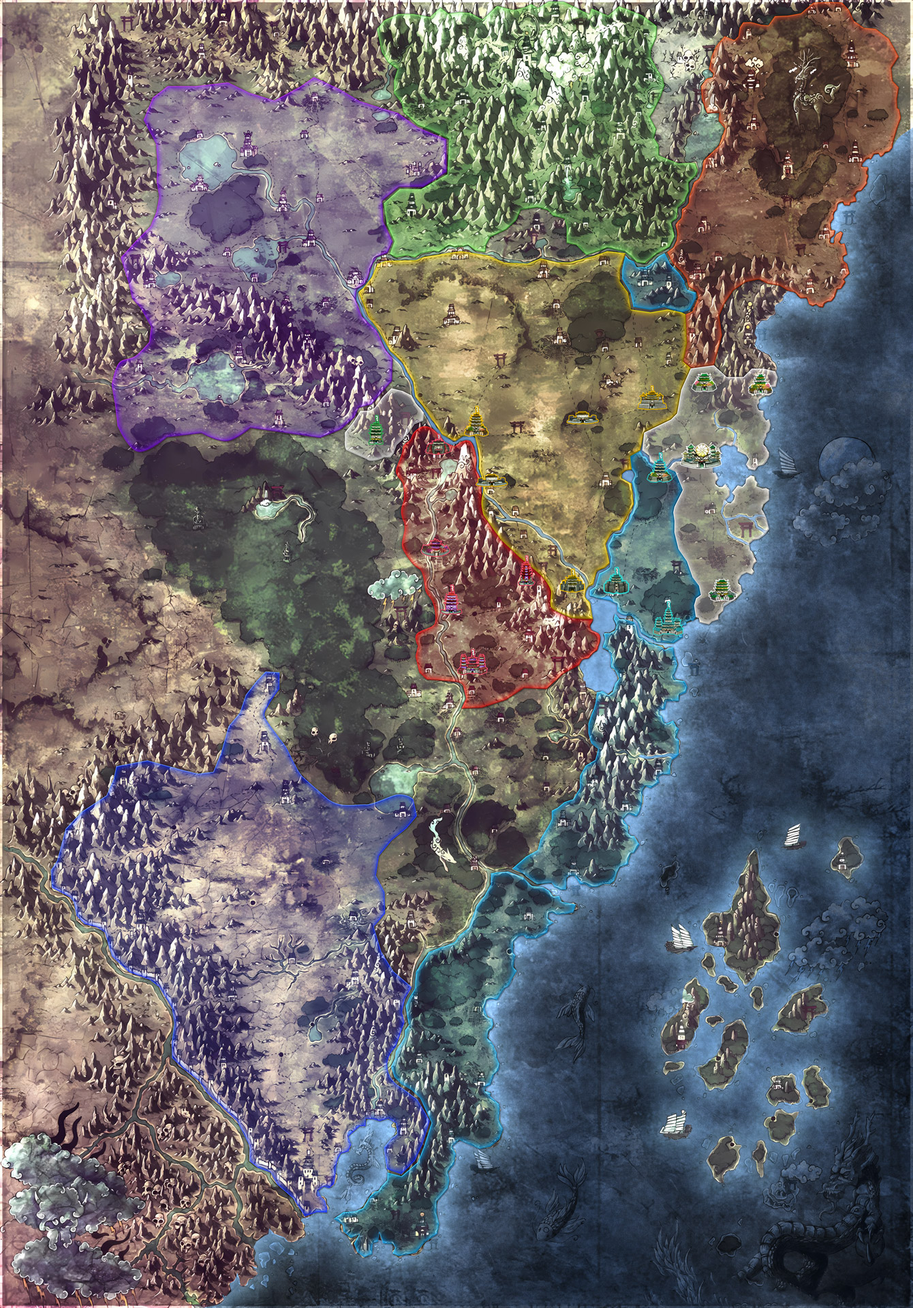
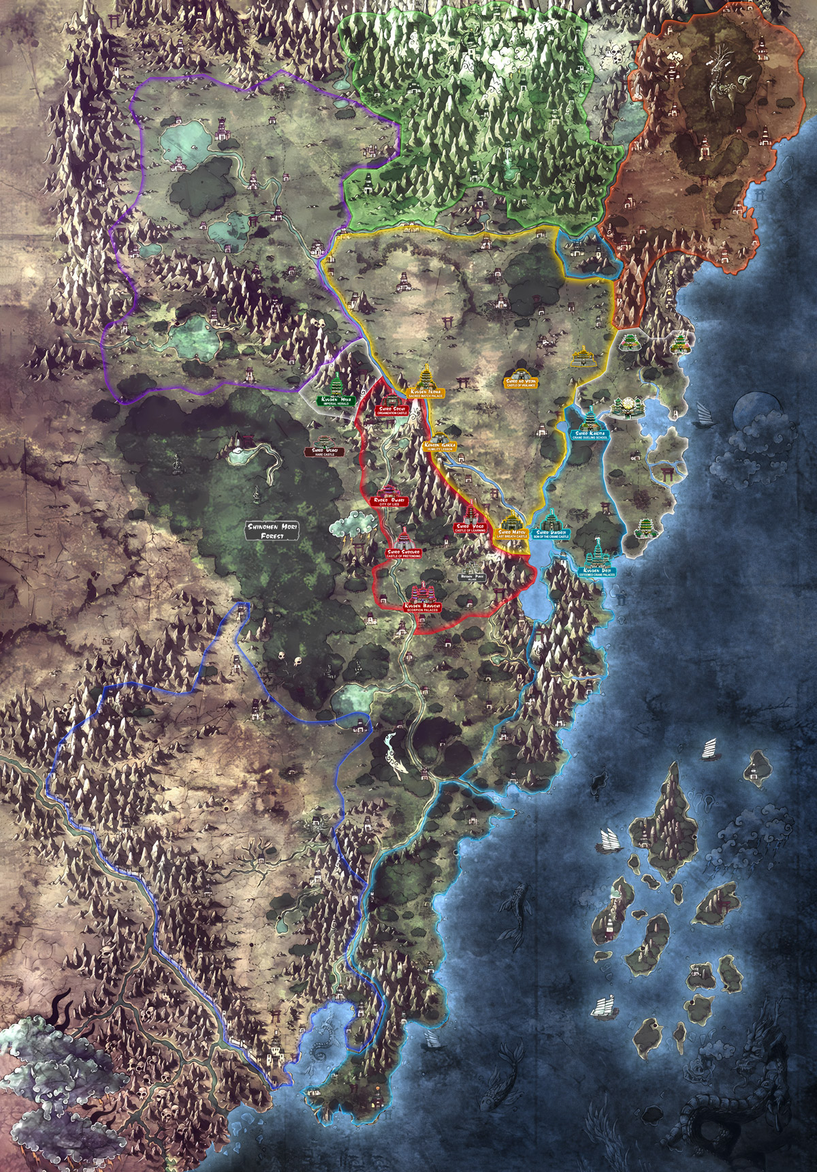
[LIEU] updated map localisator with X/Y Coordinates

diff --git a/public/css/style.css b/public/css/style.css
@@ -8,6 +8,7 @@
 .white { color: white; }
 .light-gray { color: #eee; }
 
+
 .primary-color { color: #EA2027; }
 .primary-color-light { color: #ff4147; }
 .primary-color-lighter { color: #ff8084; }
@@ -59,14 +60,6 @@
 
 h5 a:hover, h4 a:hover, h3 a:hover, h2 a:hover, h1 a:hover { text-decoration: none; color: #007bff };
 
-<<<<<<< HEAD
-.separator-chapter a { color: #fff; text-decoration: none;}
-.separator-chapter a:hover { color: #ff7f00; text-decoration: none; }
-
-.ranking a { color: black;}
-.ranking a:hover { color: #007bff; text-decoration: none;}
-=======
->>>>>>> 7868f2f (css fix: background for insert button)
 
 
 /* -------------------------- */
@@ -107,28 +100,6 @@ html, body {    font-size: 16px; }
 @font-face { font-family: "Hirosh"; src: url("../assets/fonts/hirosh.otf"); }
 @font-face { font-family: "Present"; src: url("../assets/fonts/present-it-black.otf"); }
 
-<<<<<<< HEAD
-
-
-/* LINKS */
-
-.link-white { color: #fff; }
-.link-white:hover { color: #aaa; text-decoration: underline; }
-
-.link-gray { color: rgba(255,255,255, 0.75) !important; }
-.link-gray:hover { color: rgba(255,255,255,0.9) !important; text-decoration: none !important; }
-.link-gray.active { color: rgba(255,255,255, 1) !important; }
-
-.scene-text a { font-weight: bold; }
-.scene-text a:hover { text-decoration: none; }
-
-h5 a:hover, h4 a:hover, h3 a:hover, h2 a:hover, h1 a:hover { text-decoration: none; color: #007bff };
-
-.separator-chapter a { color: #fff; text-decoration: none;}
-.separator-chapter a:hover { color: #ff7f00; text-decoration: none; }
-
-=======
->>>>>>> 7868f2f (css fix: background for insert button)
 /* TEXT EFFECTS */
 
 .clip-text-main {
@@ -223,6 +194,8 @@ h5 a:hover, h4 a:hover, h3 a:hover, h2 a:hover, h1 a:hover { text-decoration: no
 .page-min { min-height: 60vh; }
 
 /* POSITIONING & VISIBILITY */
+
+.flex-2 { flex-grow: 2 }
 
 .absolute { position: absolute }
 .relative { position: relative; }
@@ -481,6 +454,13 @@ a.location-icon { color: purple; }
 .fa-animation-delay { --fa-animation-delay: 0.67s; }
 .hover-stop:hover { animation-duration: 0s; }
 
+.zoomhide { opacity: 0; scale: 0.5; transform: translate(-50%, -50%); transform-origin: center; display: none;}
+.zoomin { opacity: 1; scale: 1; transform: translate(-0%, -0%); transform-origin: center;}
+
+.recenter {  transform: translate(-50%, -50%); }
+
+.shutdown { display: none }
+.shutin { display: block }
 
 
 /* -------------------------- */
@@ -507,8 +487,14 @@ nav .active { font-weight: bold; border-bottom: 3px solid #EA2027; }
 
 /* MAP UI LOCALISATOR */
 
-.localisator-ui { position: absolute; width: 200%; transform: translate(-50%, -50%); z-index: 5;}
-.localisator-icon { position: absolute; z-index: 10;; color: red; transform: translate(-50%, -50%) translate(0, -20px);  }
+#minimap {
+        z-index: 4; top: 0.5rem; right: 0.5rem;
+        width: 240px;
+        border: 2px solid rgba(255, 255, 255, .5);
+}
+
+.localisator-ui { z-index: 5; width: 200%; transform: translate(-50%, -50%); }
+.localisator-icon { z-index: 10; text-align: center; color: red; width: 48px; max-height: 48px; font-size: 2rem; transform: translate(-50%, -50%) translate(0px, -48px); text-shadow: 1px 1px #64080e;}
 
 /* FOOTER */
 
@@ -518,3 +504,9 @@ nav .active { font-weight: bold; border-bottom: 3px solid #EA2027; }
 .footer-link:hover { color:#fff; text-decoration: underline; }
 #footer1 ul, #footer2 ul { list-style:outside none none; padding: 0; }
 #social-medias { font-size: 2rem; }
+
+/* SOME TESTS */
+/* :root {
+        --main-primary-color: #EA2027;
+      }
+.test { color: var(--main-primary-color); } */

diff --git a/src/Entity/Lieu.php b/src/Entity/Lieu.php
@@ -3,6 +3,7 @@
 namespace App\Entity;
 
 use App\Repository\LieuRepository;
+use Symfony\Component\Validator\Constraints as Assert;
 use Doctrine\ORM\Mapping as ORM;
 
 /**
@@ -59,8 +60,14 @@ class Lieu
 
     /**
      * @ORM\Column(type="decimal", precision=5, scale=2, nullable=true)
+     * @Assert\Range(min=1, max=99)
      */
     private $locY;
+
+    /**
+     * @ORM\Column(type="decimal", precision=5, scale=2, nullable=true)
+     */
+    private $testDecimal;
 
     public function getId(): ?int
     {
@@ -151,26 +158,38 @@ class Lieu
         return $this;
     }
 
-    public function getLocX(): ?int
+    public function getLocX(): ?string
     {
         return $this->locX;
     }
 
-    public function setLocX(?int $locX): self
+    public function setLocX(?string $locX): self
     {
         $this->locX = $locX;
 
         return $this;
     }
 
-    public function getLocY(): ?int
+    public function getLocY(): ?string
     {
         return $this->locY;
     }
 
-    public function setLocY(?int $locY): self
+    public function setLocY(?string $locY): self
     {
         $this->locY = $locY;
+
+        return $this;
+    }
+
+    public function getTestDecimal(): ?string
+    {
+        return $this->testDecimal;
+    }
+
+    public function setTestDecimal(?string $testDecimal): self
+    {
+        $this->testDecimal = $testDecimal;
 
         return $this;
     }

diff --git a/migrations/Version20231005153156.php b/migrations/Version20231005153156.php
@@ -1,0 +1,31 @@
+<?php
+
+declare(strict_types=1);
+
+namespace DoctrineMigrations;
+
+use Doctrine\DBAL\Schema\Schema;
+use Doctrine\Migrations\AbstractMigration;
+
+/**
+ * Auto-generated Migration: Please modify to your needs!
+ */
+final class Version20231005153156 extends AbstractMigration
+{
+    public function getDescription(): string
+    {
+        return '';
+    }
+
+    public function up(Schema $schema): void
+    {
+        // this up() migration is auto-generated, please modify it to your needs
+        $this->addSql('ALTER TABLE lieu ADD test_decimal NUMERIC(5, 2) DEFAULT NULL');
+    }
+
+    public function down(Schema $schema): void
+    {
+        // this down() migration is auto-generated, please modify it to your needs
+        $this->addSql('ALTER TABLE lieu DROP test_decimal');
+    }
+}

diff --git a/src/Form/AdminLieuType.php b/src/Form/AdminLieuType.php
@@ -25,12 +25,7 @@ class AdminLieuType extends AbstractType
             ->add('description', TextareaType::class)
             ->add('coordinates', TextType::class)
             ->add('locX', NumberType::class, array(
-                'scale' => 2,
-                'attr' => array(
-                    'min' => 1,
-                    'max' => 99,
-                    'step' => '.05',
-                ),
+                'scale' => 3,
                 'label' => 'Coordinate (Horizontal % of the map)',
                 'required' => false,
             ))
